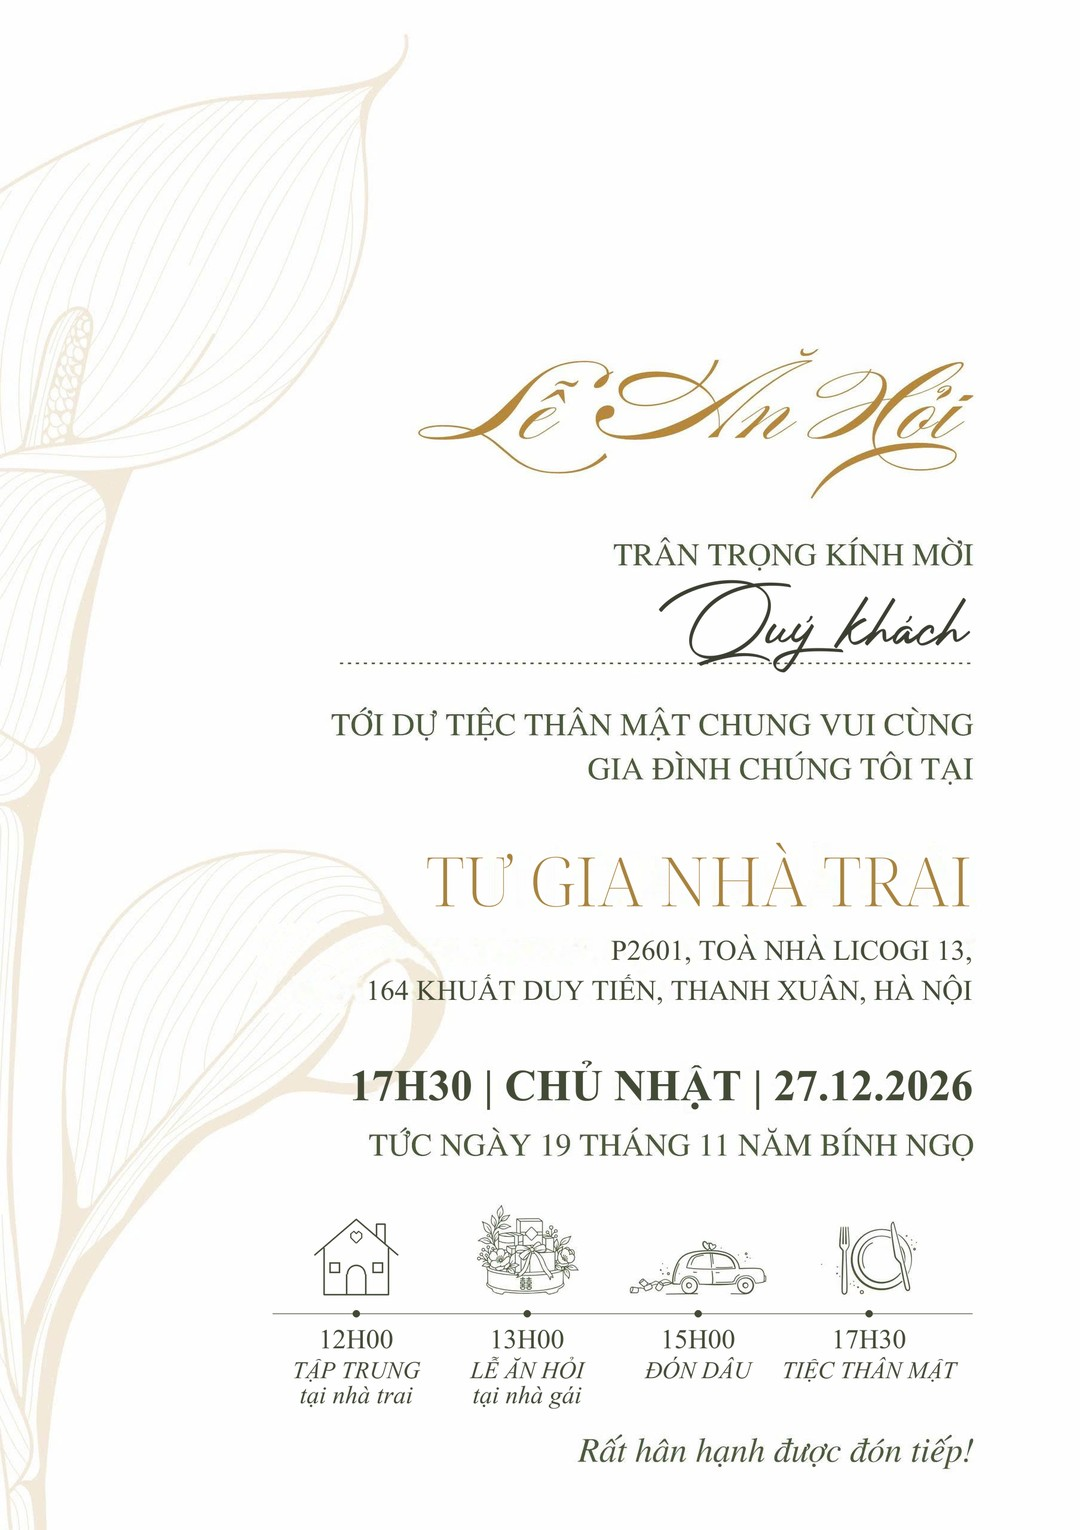
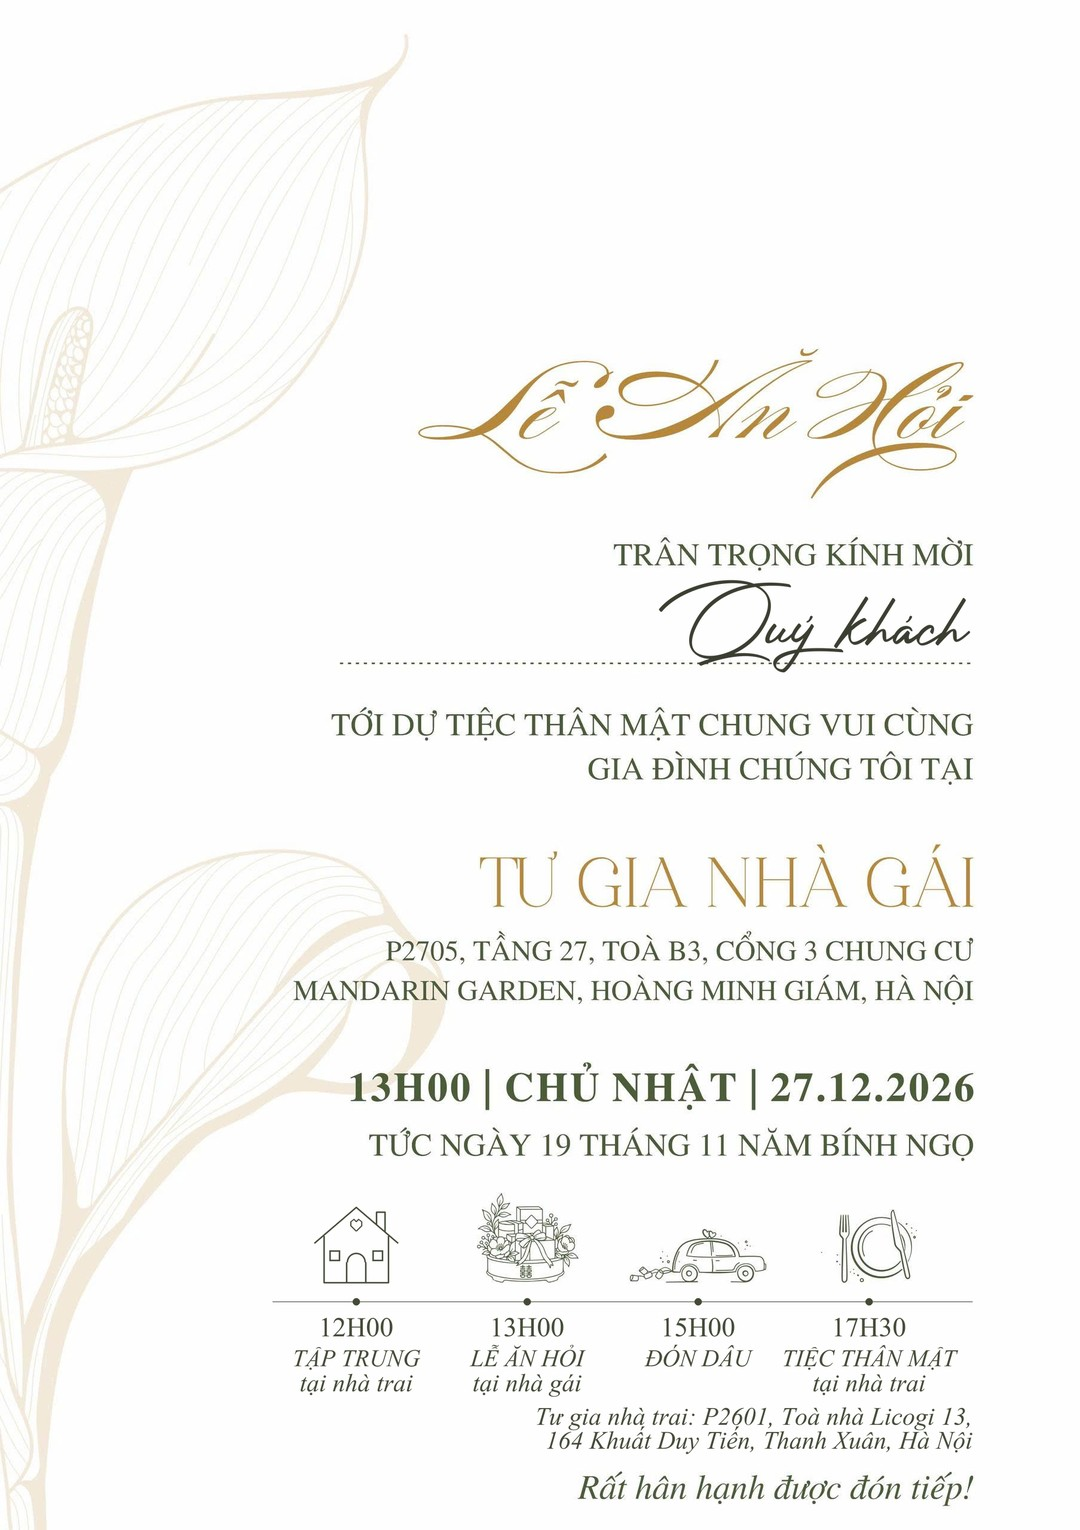
Thiệp ăn hỏi: giữ mặt thiệp như bản in (tư gia nhà gái, 13H00), chỉ thêm timeline 4 mốc và địa chỉ nhà trai

Changed region(s): [[0.275, 0.5529, 0.9167, 0.7373], [0.4278, 0.768, 0.9167, 0.983], [0.275, 0.7987, 0.3972, 0.9216]]

diff --git a/cong-cu/tao_thiep_phu.py b/cong-cu/tao_thiep_phu.py
@@ -1,8 +1,9 @@
 """Tạo ảnh thiệp ăn hỏi bản nhà trai -> images/thiep/an-hoi.jpg (từ nguon/an-hoi.jpeg)
 
 - viết "Quý khách" (phông chữ ký Photograph Signature, cùng kiểu mặt lời mời 1.jpg) lên dòng chấm, căn phải;
-- sửa cho khách nhà trai: TƯ GIA NHÀ TRAI + địa chỉ nhà trai, giờ chính 17H30 (tiệc thân mật ở nhà trai),
-  "tại nhà gái" / "tại nhà trai" dưới hàng biểu tượng, dòng "Đoàn nhà trai khởi hành lúc 12H00…".
+- cho khách nhà trai: giữ mặt thiệp như bản in, đổi hàng biểu tượng thành timeline 4 mốc (12H00 tập trung tại
+  nhà trai · 13H00 lễ ăn hỏi tại nhà gái · 15H00 đón dâu · 17H30 tiệc thân mật tại nhà trai) và thêm một dòng
+  địa chỉ nhà trai. (Bản đổi hẳn "TƯ GIA NHÀ TRAI" trên mặt thiệp vẫn còn trong script: DOI_NOI_TIEC.)
 (Bản có vows: các mốc lễ vows gộp vào tờ chương trình, xem cong-cu/tao_chuong_trinh_doc.py nếu có.)
 
 Phông cần trên máy (không đưa lên GitHub): phong-chu/PhotographSignature.otf, phong-chu/noto-serif-display/;
@@ -146,24 +147,28 @@ def viet(chu, f, x, day, mau=MAU_XANH, neo="rs"):
     ImageDraw.Draw(lop_moi[mau]).text((x * K, day * K), chu, font=f, fill=255, anchor=neo)
 
 
-# a) dòng vàng: TƯ GIA NHÀ GÁI -> TƯ GIA NHÀ TRAI (chữ I cao 81 điểm ảnh, chân chữ ở hàng 1516)
-an_hoi = xoa_chu(an_hoi, (790, 1400, 1645, 1530), 235)
-f_vang = phong(NOTO, 100, dam=250)
-cao_I = -f_vang.getbbox("I", anchor="ls")[1] / K
-f_vang = phong(NOTO, 100 * 81 / cao_I, dam=250)
-viet("TƯ GIA NHÀ TRAI", f_vang, LE_PHAI, 1516.5, MAU_VANG)
+# Đổi nơi tiệc thành TƯ GIA NHÀ TRAI (địa chỉ, giờ chính 17H30) ngay trên mặt thiệp. Đã chọn giữ mặt thiệp
+# như bản in gốc, chỉ thêm timeline và địa chỉ nhà trai bên dưới, nên tắt (để lại nếu cần dùng sau).
+DOI_NOI_TIEC = False
+if DOI_NOI_TIEC:
+    # a) dòng vàng: TƯ GIA NHÀ GÁI -> TƯ GIA NHÀ TRAI (chữ I cao 81 điểm ảnh, chân chữ ở hàng 1516)
+    an_hoi = xoa_chu(an_hoi, (790, 1400, 1645, 1530), 235)
+    f_vang = phong(NOTO, 100, dam=250)
+    cao_I = -f_vang.getbbox("I", anchor="ls")[1] / K
+    f_vang = phong(NOTO, 100 * 81 / cao_I, dam=250)
+    viet("TƯ GIA NHÀ TRAI", f_vang, LE_PHAI, 1516.5, MAU_VANG)
 
-# b) địa chỉ: hai dòng, cùng cỡ và cùng hàng chân chữ với địa chỉ nhà gái
-co_dc, day_2 = khop("MANDARIN GARDEN, HOÀNG MINH GIÁM, HÀ NỘI", TIMES, (491, 1631, 1627, 1680))
-_, day_1 = khop("P2705, TẦNG 27, TOÀ B3, CỔNG 3 CHUNG CƯ", TIMES, (646, 1558, 1627, 1613))
-an_hoi = xoa_chu(an_hoi, (430, 1545, 1645, 1695), 205, chu_xanh=True)
-viet("P2601, TOÀ NHÀ LICOGI 13,", phong(TIMES, co_dc), LE_PHAI, day_1)
-viet("164 KHUẤT DUY TIẾN, THANH XUÂN, HÀ NỘI", phong(TIMES, co_dc), LE_PHAI, day_2)
+    # b) địa chỉ: hai dòng, cùng cỡ và cùng hàng chân chữ với địa chỉ nhà gái
+    co_dc, day_2 = khop("MANDARIN GARDEN, HOÀNG MINH GIÁM, HÀ NỘI", TIMES, (491, 1631, 1627, 1680))
+    _, day_1 = khop("P2705, TẦNG 27, TOÀ B3, CỔNG 3 CHUNG CƯ", TIMES, (646, 1558, 1627, 1613))
+    an_hoi = xoa_chu(an_hoi, (430, 1545, 1645, 1695), 205, chu_xanh=True)
+    viet("P2601, TOÀ NHÀ LICOGI 13,", phong(TIMES, co_dc), LE_PHAI, day_1)
+    viet("164 KHUẤT DUY TIẾN, THANH XUÂN, HÀ NỘI", phong(TIMES, co_dc), LE_PHAI, day_2)
 
-# c) giờ chính: 13H00 -> 17H30 (giờ tiệc thân mật ở nhà trai)
-co_ngay, day_ngay = khop("13H00 | CHỦ NHẬT | 27.12.2026", TIMES_DAM, (587, 1777, 1628, 1856))
-an_hoi = xoa_chu(an_hoi, (560, 1765, 1645, 1868), 205)
-viet("17H30 | CHỦ NHẬT | 27.12.2026", phong(TIMES_DAM, co_ngay), LE_PHAI + 1, day_ngay)
+    # c) giờ chính: 13H00 -> 17H30 (giờ tiệc thân mật ở nhà trai)
+    co_ngay, day_ngay = khop("13H00 | CHỦ NHẬT | 27.12.2026", TIMES_DAM, (587, 1777, 1628, 1856))
+    an_hoi = xoa_chu(an_hoi, (560, 1765, 1645, 1868), 205)
+    viet("17H30 | CHỦ NHẬT | 27.12.2026", phong(TIMES_DAM, co_ngay), LE_PHAI + 1, day_ngay)
 
 # d) hàng biểu tượng -> timeline 4 mốc: 12H00 tập trung tại nhà trai · 13H00 lễ ăn hỏi tại nhà gái · 15H00 đón dâu
 #    · 17H30 tiệc thân mật. Biểu tượng tráp / xe hoa / bát đĩa cắt từ thiệp; mốc 12H00 vẽ thêm ngôi nhà cùng nét.
@@ -201,9 +206,9 @@ def ve_nha(rong=150):
 
 
 TAM = [596, 882, 1168, 1454]                 # tâm 4 cột, cột cuối giữ đúng chỗ cũ (lề phải chữ TIỆC THÂN MẬT)
-DAY_BT, Y_KE = 2165, 2198                    # chân các biểu tượng, hàng đường kẻ
+DAY_BT, Y_KE = 2145, 2178                    # chân các biểu tượng, hàng đường kẻ
 MOC = [("12H00", "TẬP TRUNG", "tại nhà trai", None), ("13H00", "LỄ ĂN HỎI", "tại nhà gái", "trap"),
-       ("15H00", "ĐÓN DÂU", "", "xe"), ("17H30", "TIỆC THÂN MẬT", "", "dia")]
+       ("15H00", "ĐÓN DÂU", "", "xe"), ("17H30", "TIỆC THÂN MẬT", "tại nhà trai", "dia")]
 nha = ve_nha()
 for x, (gio, ten, noi, k_bt) in zip(TAM, MOC):
     if k_bt:
@@ -219,6 +224,15 @@ ve = ImageDraw.Draw(lop_moi[MAU_XANH])
 ve.line([((TAM[0] - 140) * K, Y_KE * K), (LE_PHAI * K, Y_KE * K)], fill=170, width=round(1.6 * K))
 for x in TAM:
     ve.ellipse([(x - 6) * K, (Y_KE - 6) * K, (x + 6) * K, (Y_KE + 6) * K], fill=255)
+
+# e) địa chỉ nhà trai: một dòng nghiêng dưới timeline; dời "Rất hân hạnh được đón tiếp!" xuống cho có chỗ
+VUNG_CAM_ON, XUONG = (900, 2385, 1660, 2475), 62
+dong = an_hoi.crop(VUNG_CAM_ON)
+an_hoi.paste(Image.new("RGB", dong.size, nen_trang), VUNG_CAM_ON[:2])
+an_hoi.paste(dong, (VUNG_CAM_ON[0], VUNG_CAM_ON[1] + XUONG))
+f_dc = phong(TIMES_NGHIENG, co_gio * .92)
+viet("Tư gia nhà trai: P2601, Toà nhà Licogi 13,", f_dc, LE_PHAI, 2384)
+viet("164 Khuất Duy Tiến, Thanh Xuân, Hà Nội", f_dc, LE_PHAI, 2424)
 
 for mau, lop_m in lop_moi.items():
     an_hoi = Image.composite(Image.new("RGB", an_hoi.size, mau), an_hoi, lop_m.resize(an_hoi.size, Image.LANCZOS))
